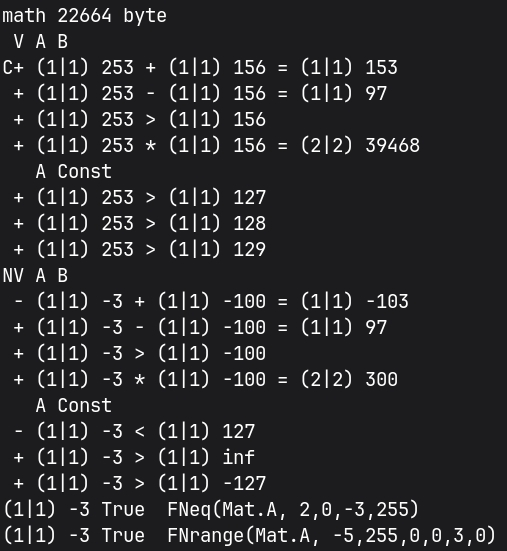
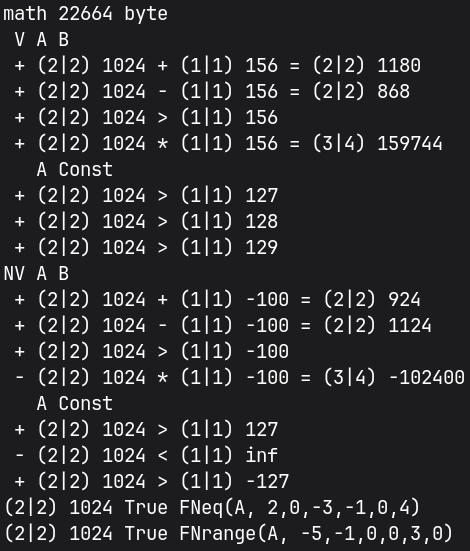
v19.1

Changed region(s): [[0.0, 0.0, 0.983, 0.9873], [0.834, 0.6479, 1.0, 0.7096], [0.834, 0.5245, 0.9234, 0.6171]]

diff --git a/main.c b/main.c
@@ -29,7 +29,7 @@ void Const(void) { an sb; anu l, i = 2; printf("   A Const\n"); Show('c'); sb = 
   while(i--) { if (!++(*Mat.B) && lb) { (*(Mat.B + 1))++; } Show('?'); } Mat.B = sb; lb = l; }
 void Test(void) { printf("%c%c A B\n", Mat.Nim ? 'N':' ', Mat.V ? 'V':' '); Show('+'); Show('-'); Show('?');
   Show('*'); /*Show('/');*/ Const(); }
-void Cmp(void) { Num(la, Mat.A); Mat.C = 0; printf("%s FNeq(Mat.A, 2,0,-3,255)\n", FNeq(Mat.A, 2,0,-3,255) ? "True ":"False");
-  Num(la, Mat.A); printf("%s FNrange(Mat.A, -5,255,0,0,3,0)\n", FNrange(Mat.A, -5,255,0,0,3,0) ? "True ":"False"); }
-int main(void) { anu v = 1,a[m],b[m],e[m],r[m+m]; Faddr((As)r, (As)e, (As)a, (As)b); Fini(0,v); la = Fbvi(Mat.A, 255,-3);
+void Cmp(void) { Num(la, Mat.A); Mat.C = 0; printf("%s FNeq(A, 2,0,-3,-1,0,4)\n", FNeq(Mat.A, 2,0,-3,-1,0,4) ? "True":"False");
+  Num(la, Mat.A); printf("%s FNrange(A, -5,-1,0,0,3,0)\n", FNrange(Mat.A, -5,-1,0,0,3,0) ? "True":"False"); }
+int main(void) { anu v = 1,a[m],b[m],e[m],r[m+m]; Faddr((As)r, (As)e, (As)a, (As)b); Fini(0,v); la = Fbvi(Mat.A, 4,0);
   lb = Fvi(Mat.B, -100,255,255); Test(); Fset(1,v); la = Fmov(la, Mat.A); lb = Fmov(lb, Mat.B); Test(); Cmp(); return 0; }

diff --git a/README.md b/README.md
@@ -17,7 +17,7 @@
 P.s.: Блокировку убрали как только добавил сообщение о ней на главную страницу, длилась минут 20 как я заметил и принял меры чтоб сообщить об этом Вам. Это сообщение останется (20.09.2026 ~16.00 по местному +7) как память, так, что буду стараться вопреки не востребованности в России по данной области дабы остальной народ мог этим воспользоваться. Проанализируйте события с момента как я вернулся в эту сферу (конец января 2026 выложен Products готовый полностью затем занялся Fresh в начале февраля 2026), всё это время обновлялся код и было забавно видеть на open.net новости - даже компании серьёзные их как озарило - так, что у меня нет желания и времени следить за соблюдением GPLv3 из России, если заметите нарушение лицензии, то гарантировано взаимовыгодное сотрудничество.
 
 <div align="center">
-  <h1>Результат запуска v19.0</h1>
+  <h1>Результат запуска v19.1</h1>
   
   <picture>
     <source media="(prefers-color-scheme: dark)" srcset="Plus/psb.jpeg">
